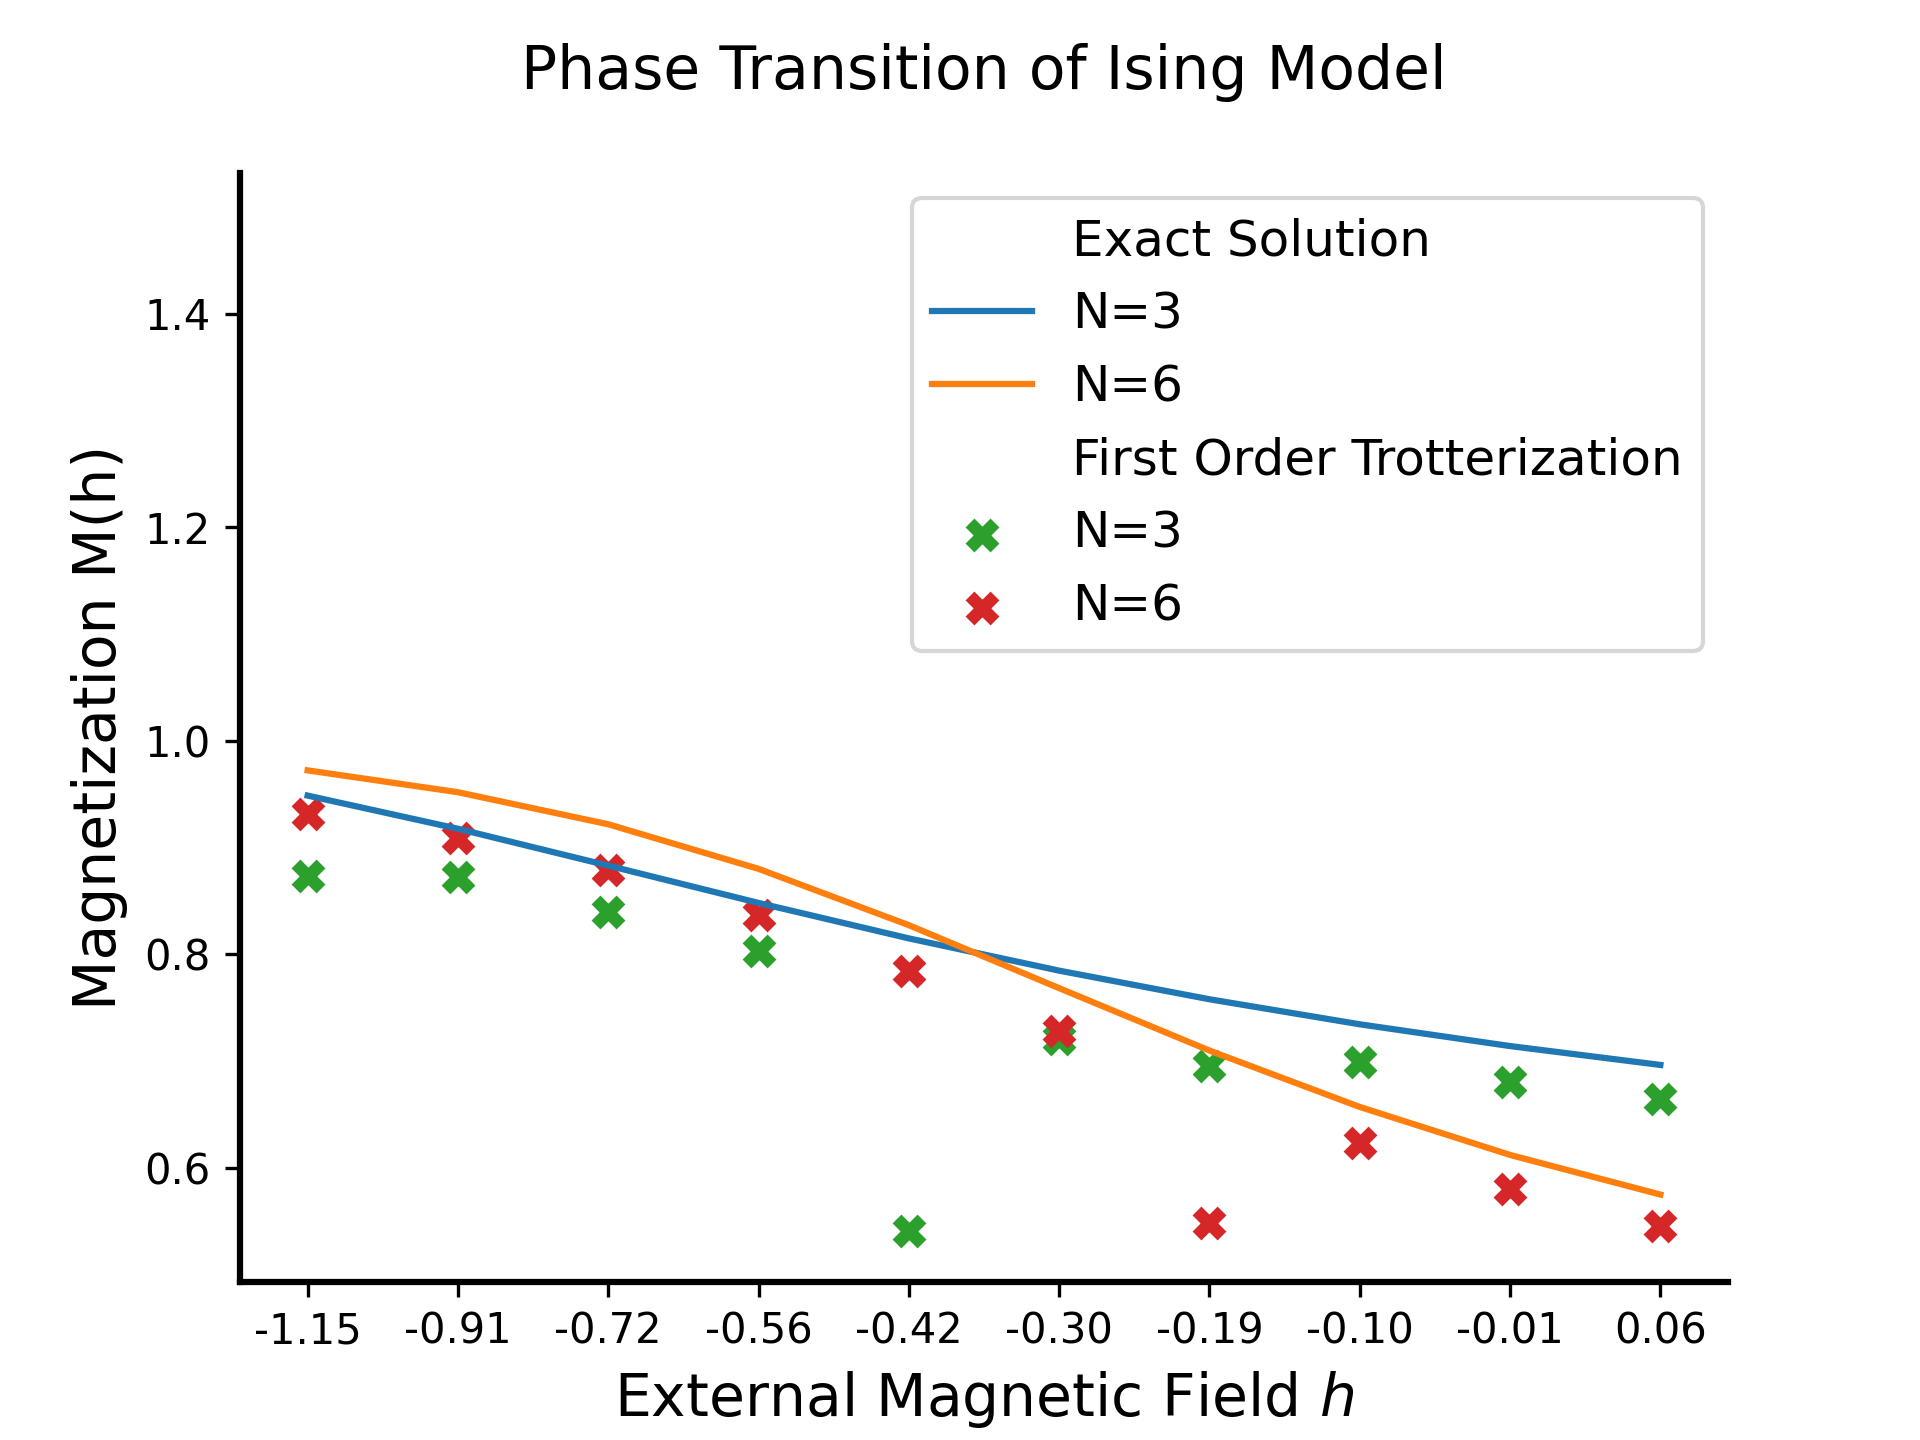
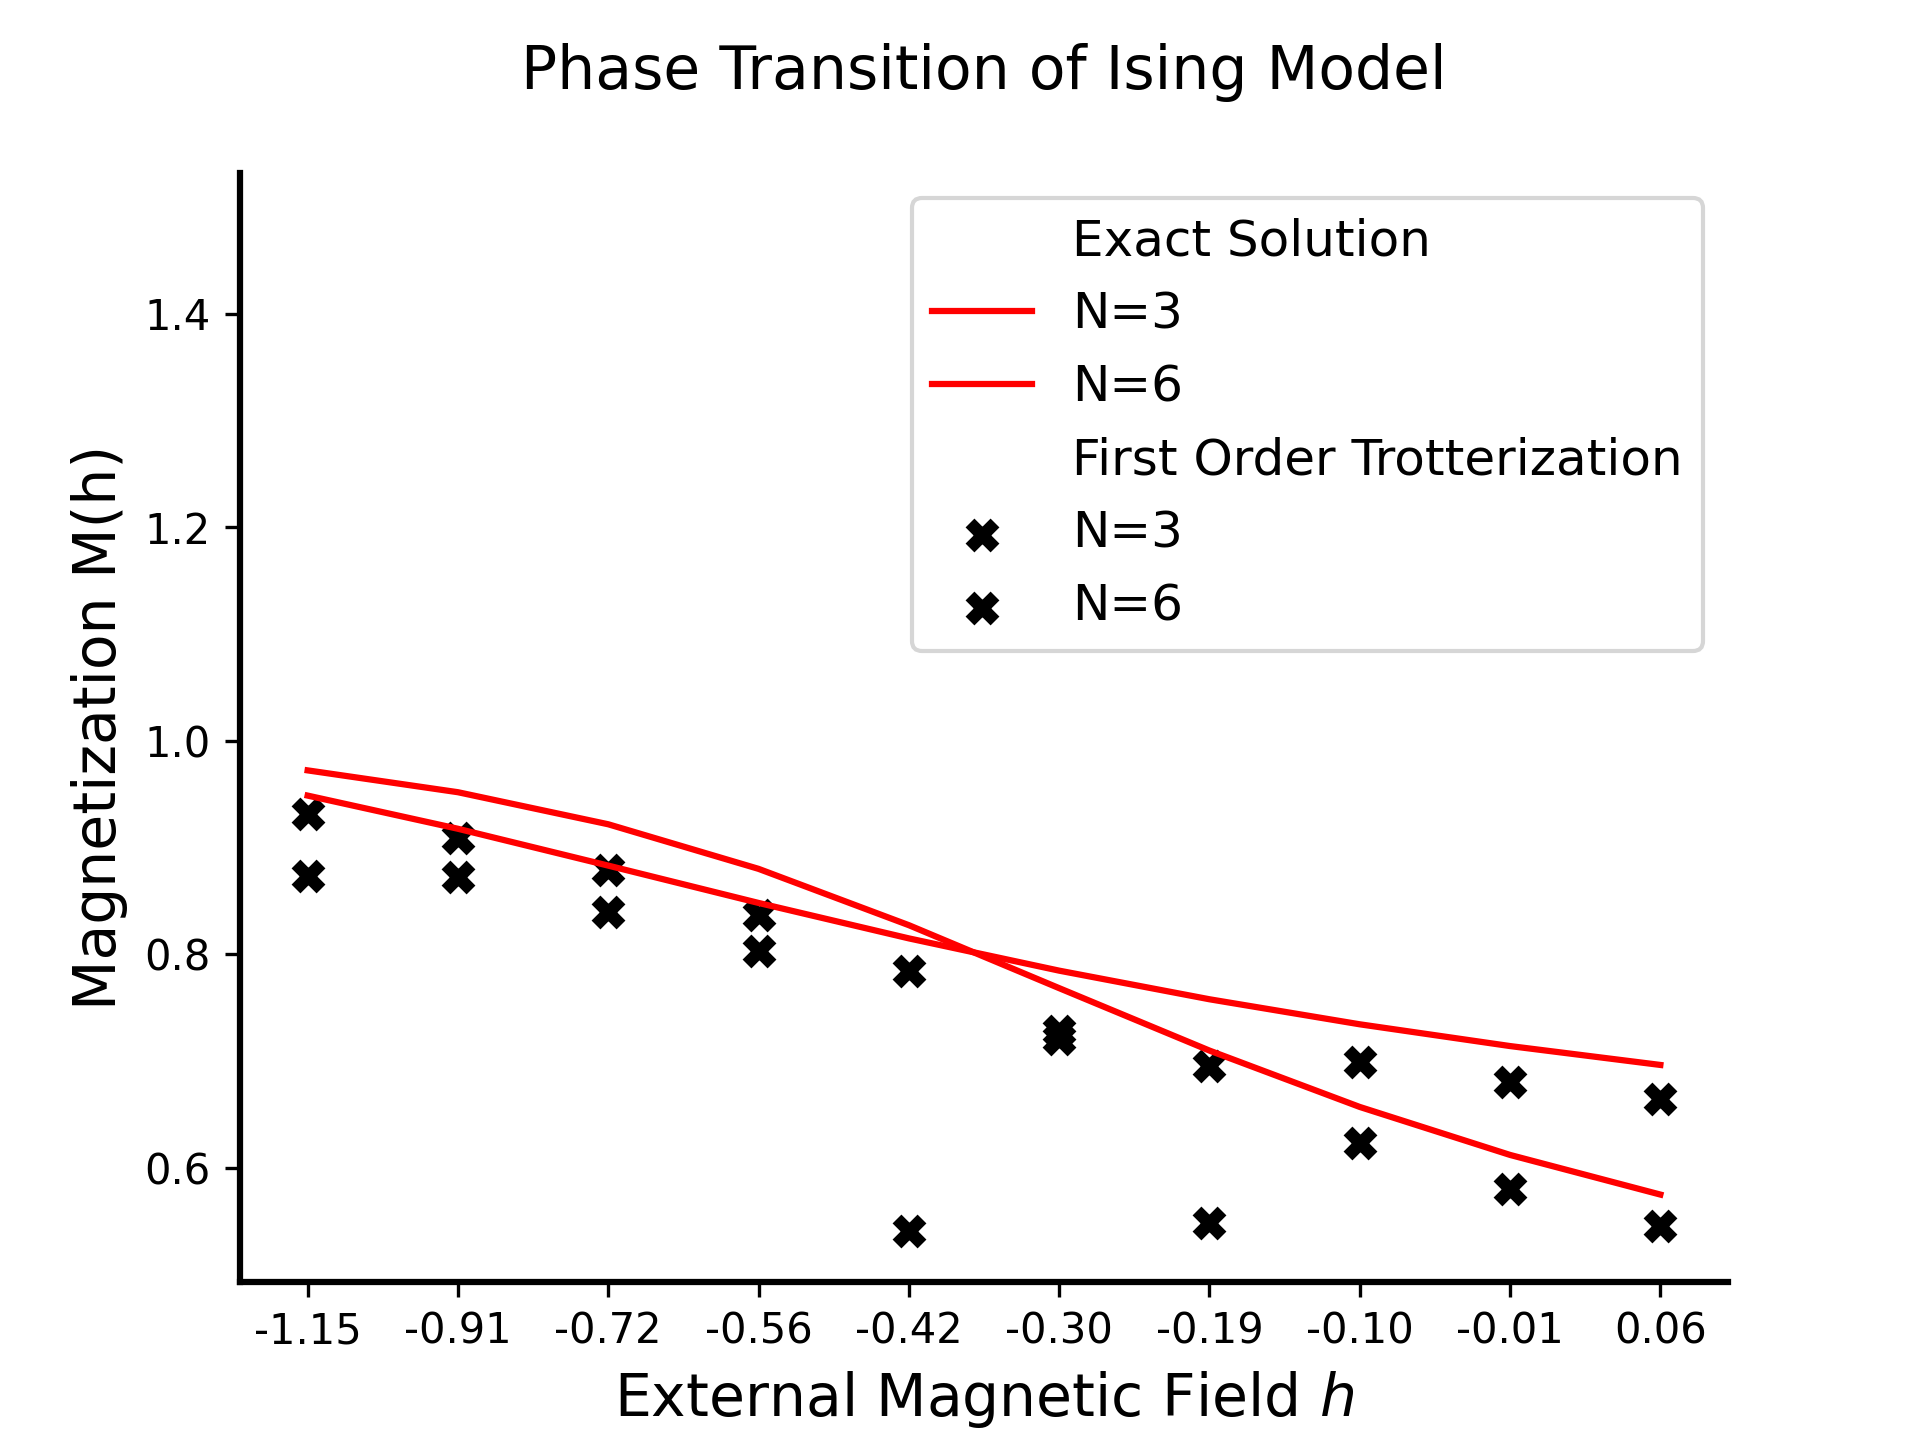
`grouped_lie` for six qubits complete

diff --git a/ising/plotter/groundstate/magnetization.py b/ising/plotter/groundstate/magnetization.py
@@ -34,6 +34,7 @@ def log_label_maker(values: list[float]) -> list[str]:
 
 def plot_method(paras, results: Result, **kwargs):
     style = kwargs.get("style")
+    color = kwargs.get("color")
 
     for num_qubit, h_wise_results in results.items():
         # h_wise_results: h -> magn
@@ -46,9 +47,12 @@ def plot_method(paras, results: Result, **kwargs):
                 label=f"N={num_qubit}",
                 marker=style,
                 linewidth=3,
+                color=color,
             )
         else:
-            ax = sns.lineplot(x=x_values, y=y_values, label=f"N={num_qubit}")
+            ax = sns.lineplot(
+                x=x_values, y=y_values, label=f"N={num_qubit}", color=color
+            )
 
 
 def plot_combined(
@@ -56,6 +60,7 @@ def plot_combined(
 ):
     scale = kwargs.get("scale", (1, 1))
     styles = kwargs.get("labels", ["L"] * len(method_wise_results))
+    colors = kwargs.get("colors", [None] * len(method_wise_results))
 
     max_h = 10 ** paras.get("end_h")
 
@@ -73,7 +78,7 @@ def plot_combined(
             alpha=0.0,
             label=METHOD_NAMES[method],
         )
-        plot_method(paras, results, style=styles[ind])
+        plot_method(paras, results, style=styles[ind], color=colors[ind])
 
     # SETTING: AXIS VISIBILITY
     ax.spines["top"].set_visible(False)
